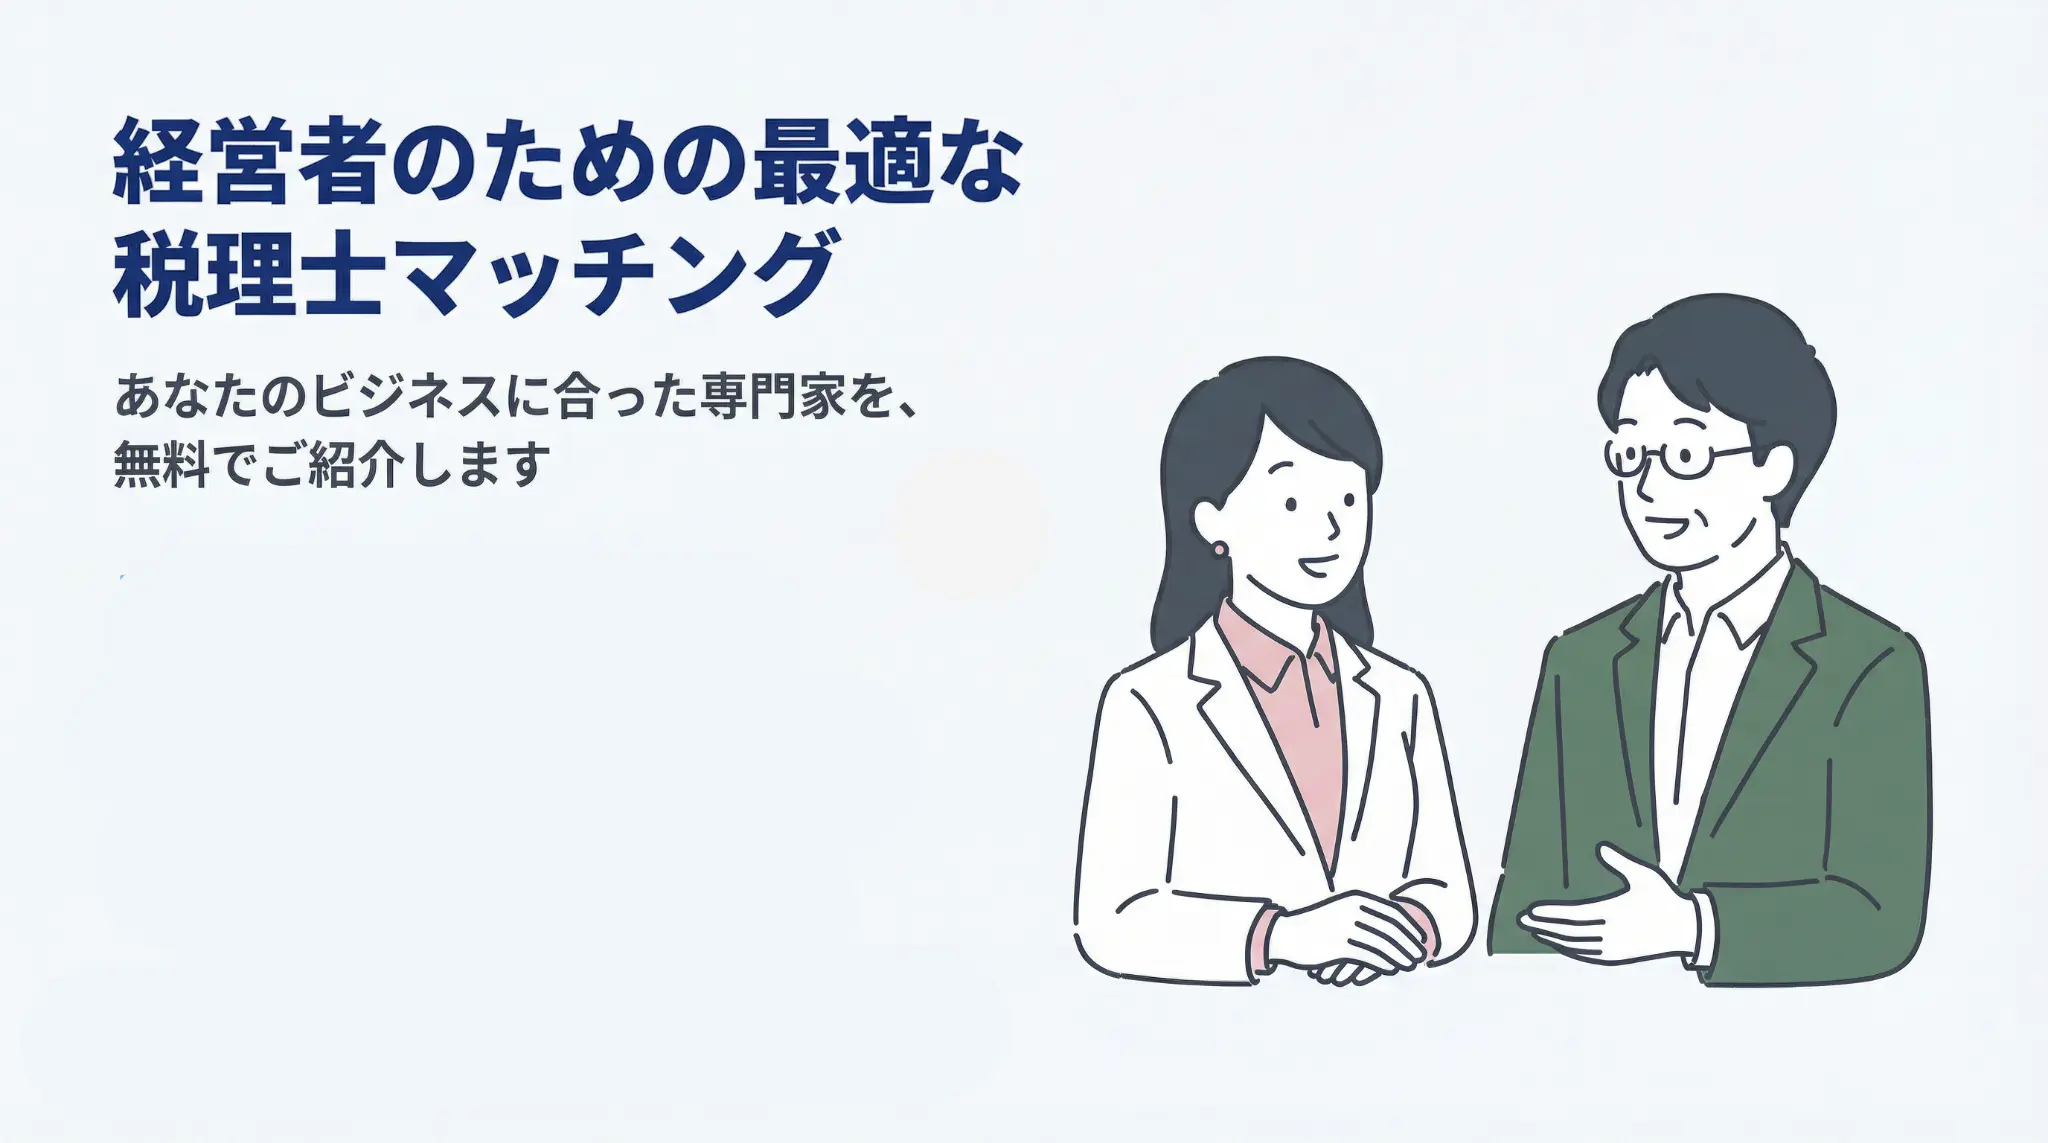
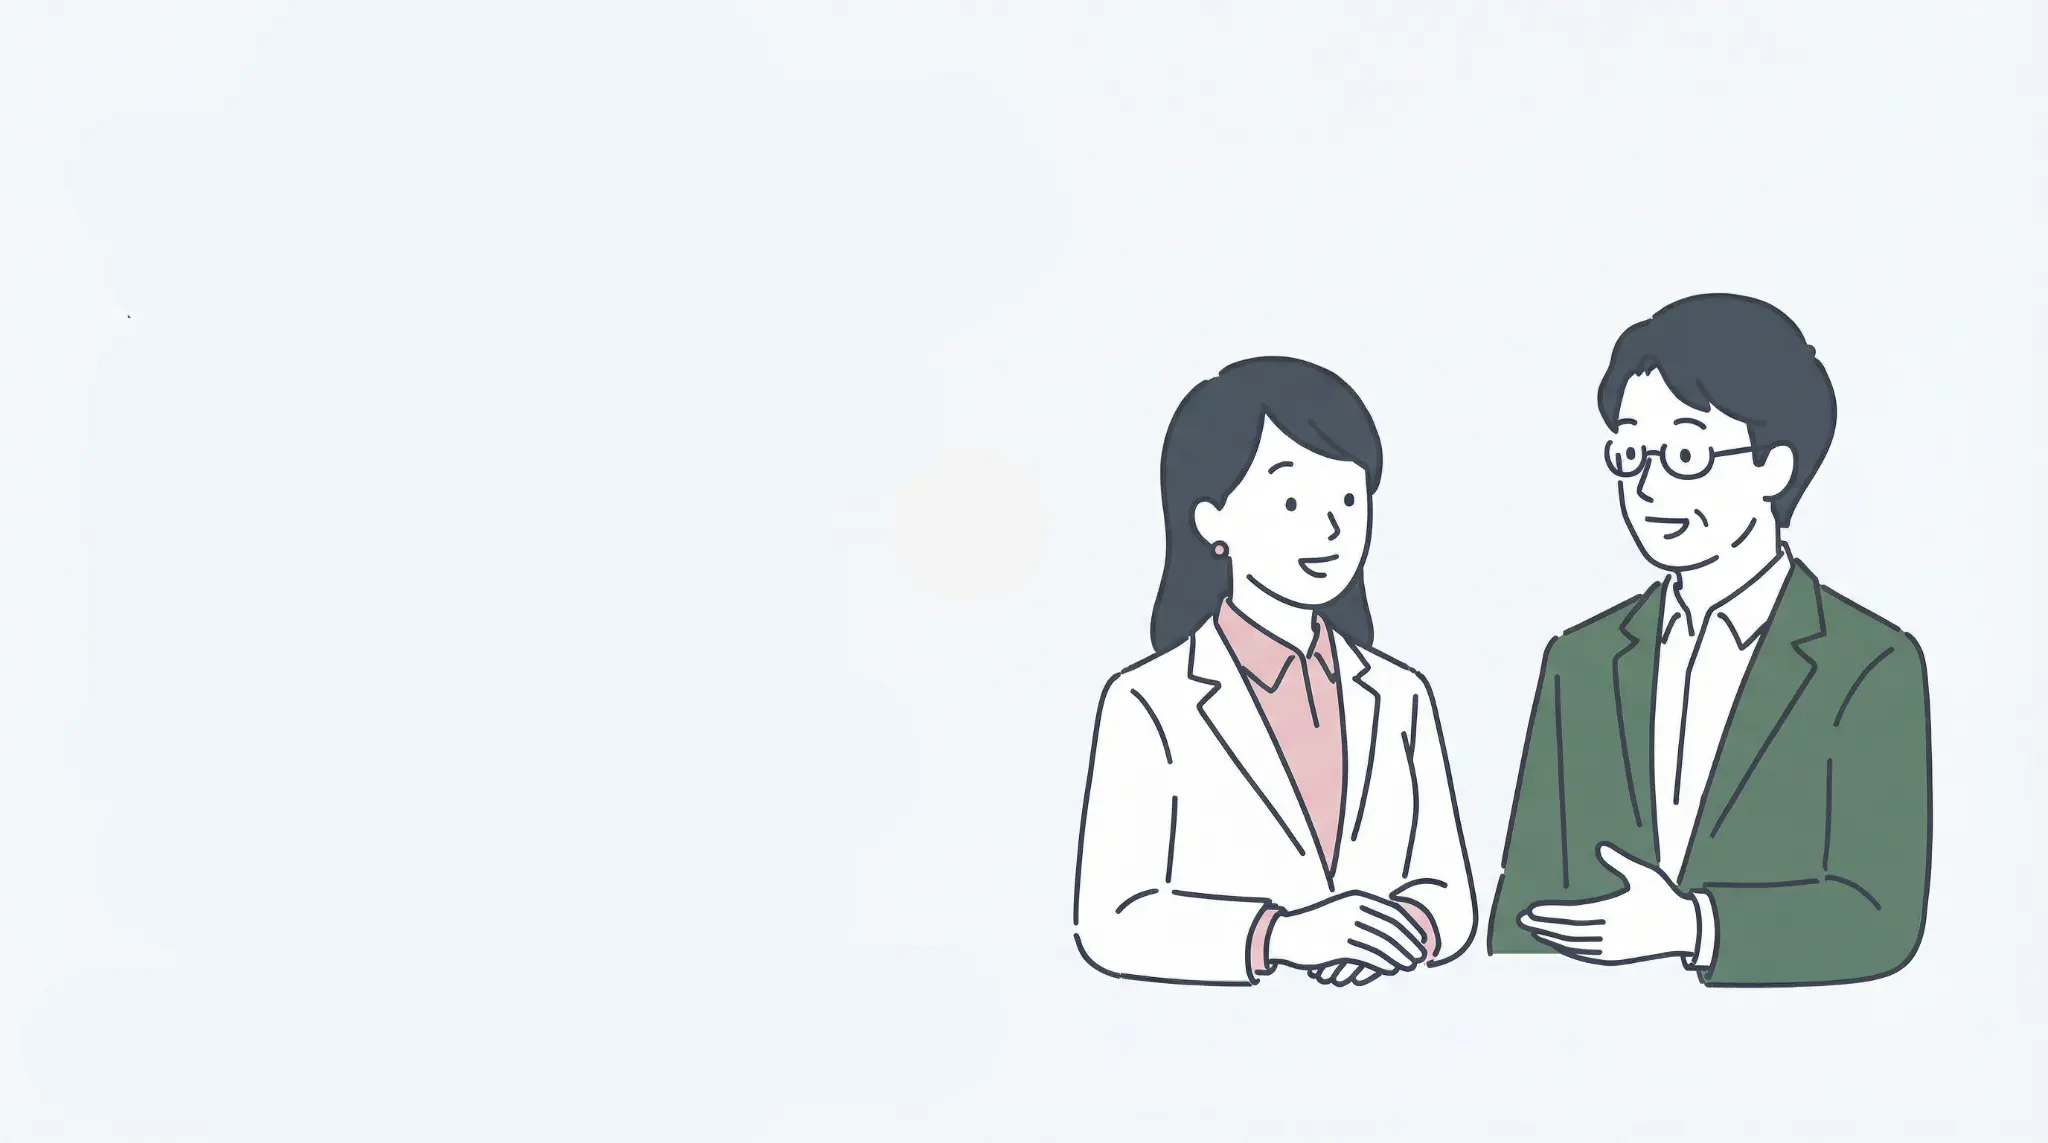
背景画像を更新して引きで表示
- 新しい画像に差し替え
- background-size: 80% で引きで表示
- 画像全体が見えるように調整
- バージョン1.9.2に更新

Changed region(s): [[0.0312, 0.0919, 0.5, 0.2756], [0.0312, 0.3062, 0.4375, 0.4287]]

diff --git a/style.css b/style.css
@@ -2,7 +2,7 @@
 Theme Name: Tax Matching Theme
 Theme URI: https://example.com
 Description: 税理士マッチングサイト用テーマ - 管理しやすく、更新しやすく、壊れにくい設計
-Version: 1.9.1
+Version: 1.9.2
 Author: InfinityDesign
 Author URI: https://example.com
 License: GNU General Public License v2 or later
@@ -507,7 +507,7 @@ body {
 /* Hero Section - 背景画像 */
 .hero {
     background-image: url('images/hero-image.png');
-    background-size: cover;
+    background-size: 80%;
     background-position: center;
     background-repeat: no-repeat;
     color: #1a1a1a;
